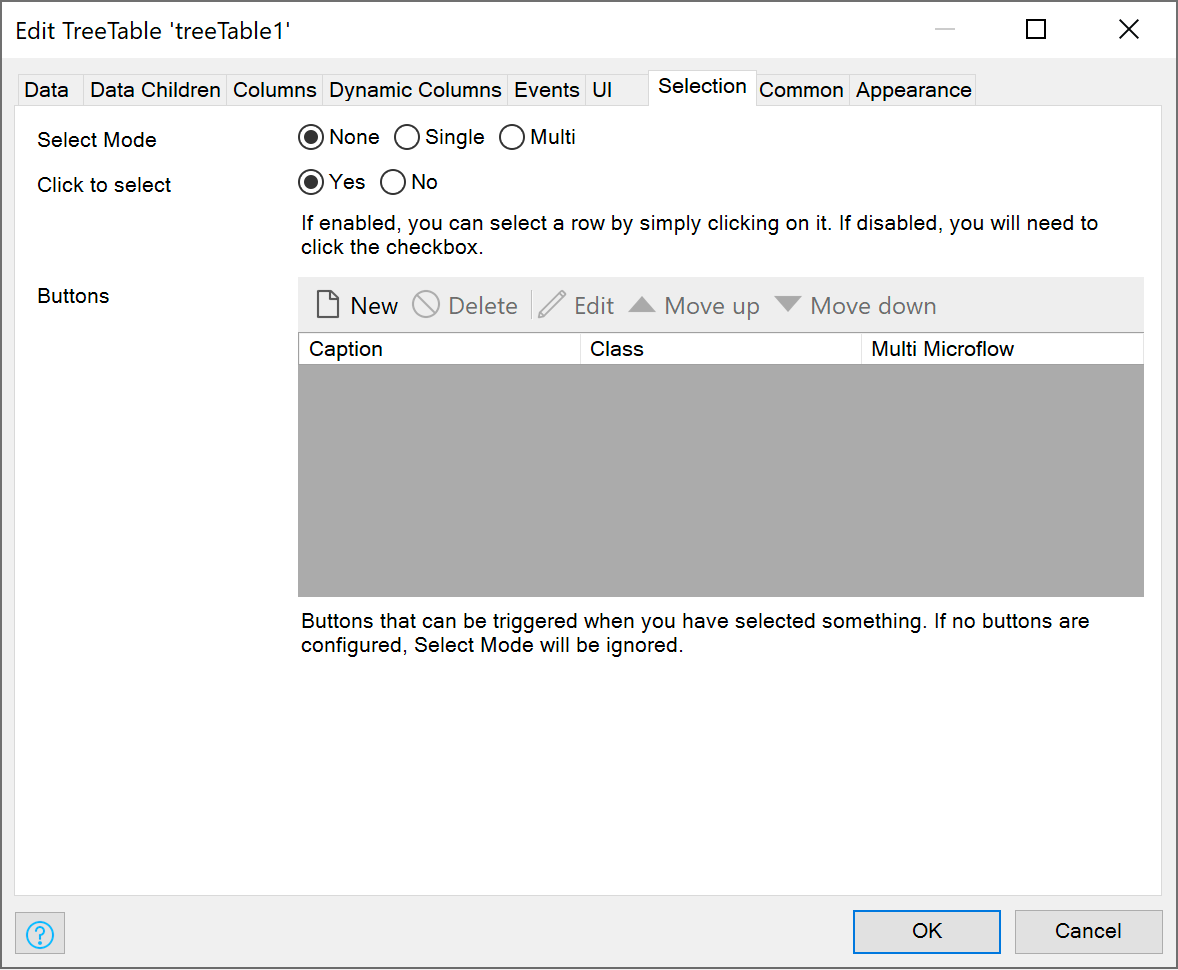
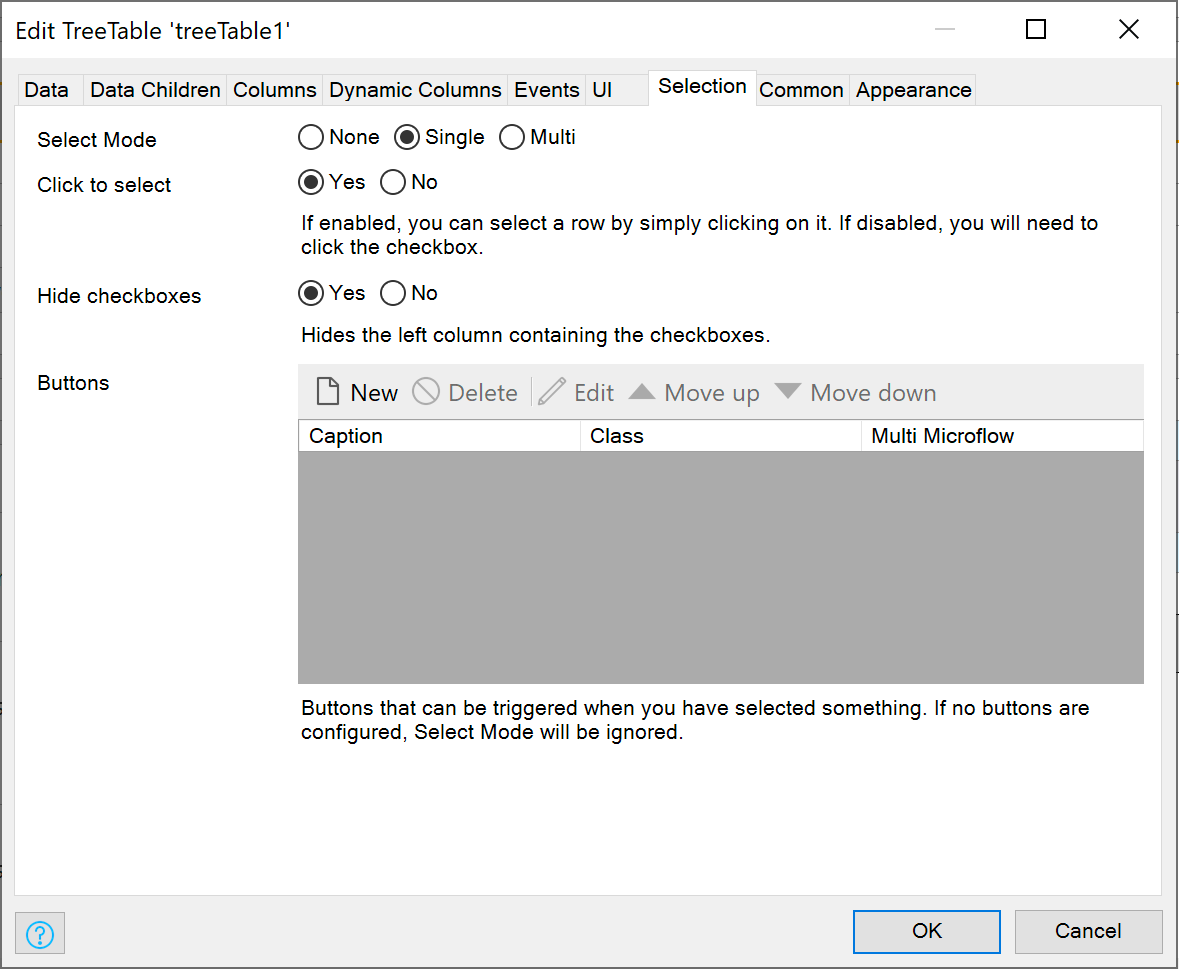
Feature: hide selectboxes

diff --git a/src/ui/MxTreeTable.scss b/src/ui/MxTreeTable.scss
@@ -6,40 +6,66 @@
 @import "~antd/es/spin/style/index.css";
 @import "~antd/es/pagination/style/index.css";
 
-.ant-table-tbody {
-    .ant-table-selection-column {
-        .ant-radio-input {
-            display:none;
-        }
-        .ant-checkbox-input {
-            display:none;
-        }
-    }
-}
-
-.ant-table-thead {
-    .ant-table-selection-column {
-        .ant-checkbox-input {
-            display:none;
+.widget-treetable-wrapper {
+    .ant-table-thead {
+        .ant-table-selection-column {
+            .ant-checkbox-input {
+                display:none;
+            }
         }
     }
-}
 
-.ant-table-row-expand-icon {
-    line-height: 16px;
-}
-
-.ant-table-cell-with-icon {
-    display: inline-block;
-    position: relative;
-    padding-left: 18px;
-    .ant-table-cell-icon.glyphicon {
-        position: absolute;
-        left: 0;
-        top: 4px;
+    .ant-table-tbody {
+        > tr.ant-table-row-selected td {
+            background: #d4d4d4;
+        }
+        .ant-table-selection-column {
+            .ant-radio-input {
+                display:none;
+            }
+            .ant-checkbox-input {
+                display:none;
+            }
+        }
     }
-}
+    &.hide-selectboxes {
+        .ant-table-selection-col {
+            width: 0!important;
+        }
+        .ant-table-selection-column {
+            padding: 0!important;
+            .ant-table-header-column {
+                display: none;
+            }
+        }
+        .ant-table-tbody {
+            .ant-table-selection-column {
+                padding: 0!important;
+                * {
+                    display: none;
+                }
+            }
+        }
+        .ant-table-row-selected {
 
-.widget-treetable-buttonbar {
-    margin-bottom: 6px;
+        }
+    }
+    .ant-table-row-expand-icon {
+        line-height: 16px;
+    }
+
+    .ant-table-cell-with-icon {
+        display: inline-block;
+        position: relative;
+        padding-left: 18px;
+        .ant-table-cell-icon.glyphicon {
+            position: absolute;
+            left: 0;
+            top: 4px;
+        }
+    }
+
+    .widget-treetable-buttonbar {
+        margin-bottom: 6px;
+    }
 }

diff --git a/src/components/TreeTable.tsx b/src/components/TreeTable.tsx
@@ -38,6 +38,7 @@ export interface TreeTableProps {
     onSelect?: (ids: string[]) => void;
     loading: boolean;
     buttonBar?: ReactNode;
+    hideSelectBoxes?: boolean;
 }
 
 interface TreeTableState {
@@ -108,7 +109,8 @@ export class TreeTable extends Component<TreeTableProps, TreeTableState> {
             loading,
             buttonBar,
             clickToSelect,
-            onClickOpenRow
+            onClickOpenRow,
+            hideSelectBoxes
         } = this.props;
         const { columns, rows, selectedRowKeys, expandedRowKeys } = this.state;
         const clearDebounce = (): void => {
@@ -179,7 +181,14 @@ export class TreeTable extends Component<TreeTableProps, TreeTableState> {
 
         return createElement(
             "div",
-            { className: classNames("widget-treetable-wrapper", className), style },
+            {
+                className: classNames(
+                    "widget-treetable-wrapper",
+                    hideSelectBoxes ? "hide-selectboxes" : null,
+                    className
+                ),
+                style
+            },
             createElement(Alert, {
                 bootstrapStyle: "danger",
                 className: "widget-treetable-alert",

diff --git a/src/MxTreeTable.tsx b/src/MxTreeTable.tsx
@@ -118,7 +118,14 @@ class MxTreeTable extends Component<MxTreeTableContainerProps, MxTreeTableState>
 
     render(): ReactNode {
         const { columns, rows, isLoading, alertMessage, validColumns } = this.state;
-        const { uiSize, uiShowHeader, selectMode, selectActionButtons, selectClickSelect } = this.props;
+        const {
+            uiSize,
+            uiShowHeader,
+            selectMode,
+            selectActionButtons,
+            selectClickSelect,
+            selectHideCheckboxes
+        } = this.props;
         const buttonBar = this.getButtons(selectActionButtons);
 
         let selectionMode = selectMode;
@@ -146,7 +153,8 @@ class MxTreeTable extends Component<MxTreeTableContainerProps, MxTreeTableState>
             onSelect: this.onSelect,
             loading: isLoading,
             buttonBar,
-            clickToSelect: selectClickSelect
+            clickToSelect: selectClickSelect,
+            hideSelectBoxes: selectHideCheckboxes
         });
     }
 

diff --git a/src/components/__tests__/TreeTable.spec.tsx b/src/components/__tests__/TreeTable.spec.tsx
@@ -59,6 +59,15 @@ describe("TreeTable", () => {
         expect(table.hasClass("widget-treetable-wrapper")).toBe(true);
     });
 
+    it("should hide selectBoxes", () => {
+        const tableProps: TreeTableProps = {
+            ...getTableProps(),
+            hideSelectBoxes: true
+        };
+        const table = createTable(tableProps);
+        expect(table.hasClass("hide-selectboxes")).toBe(true);
+    });
+
     it("should render columns", () => {
         const tableProps: TreeTableProps = {
             ...getTableProps(),

diff --git a/src/MxTreeTable.webmodeler.tsx b/src/MxTreeTable.webmodeler.tsx
@@ -82,6 +82,7 @@ export function getVisibleProperties(props: MxTreeTableContainerProps, visibilit
     visibilityMap.onDblClickOpenPageAs = props.onDblClickAction === "open";
 
     visibilityMap.selectClickSelect = props.selectMode !== "none";
+    visibilityMap.selectHideCheckboxes = props.selectMode !== "none";
     visibilityMap.selectActionButtons = props.selectMode !== "none";
 
     visibilityMap.columnHeaderEntity = props.columnMethod !== "static";

diff --git a/typings/MxTreeTableProps.d.ts b/typings/MxTreeTableProps.d.ts
@@ -83,6 +83,7 @@ export interface MxTreeTableContainerProps extends CommonProps {
 
     selectMode: SelectionMode;
     selectClickSelect: boolean;
+    selectHideCheckboxes: boolean;
     selectActionButtons: ActionButtonProps[];
     // selectMicroflow: string;
     // selectNanoflow: Nanoflow;
